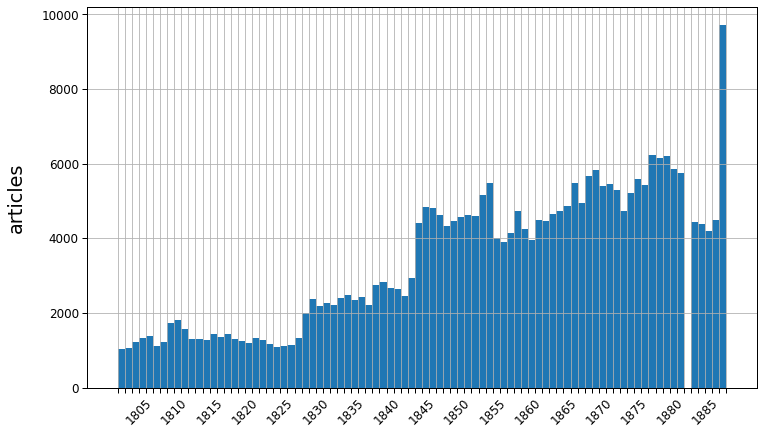
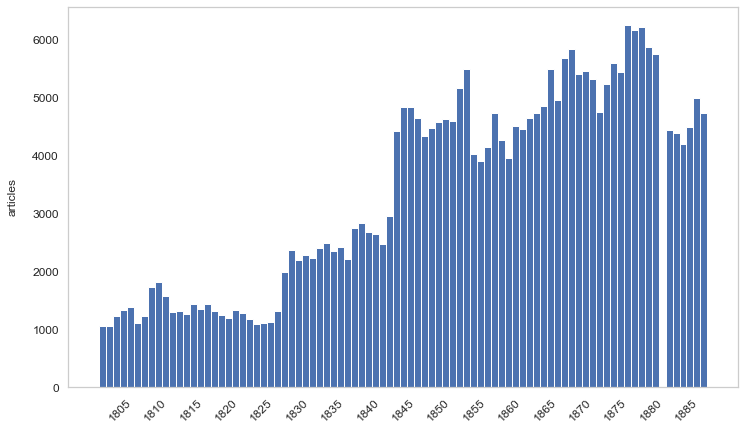
Update histogram, add seaborn style

diff --git a/streamlit_rz.py b/streamlit_rz.py
@@ -33,13 +33,13 @@ Please take these visualizations with a grain of salt. Most importantly, keep in
 
 """)
 
-with open('top_headings.json', 'r', encoding='utf8') as f:
+with open('data/top_headings.json', 'r', encoding='utf8') as f:
     contents = f.read()
     top_headings = json.loads(contents)
 
 @st.cache()
 def load_headings_df():
-    return pd.read_csv('headings_df.tsv', sep='\t', encoding='utf8')
+    return pd.read_csv('data/headings_df.tsv', sep='\t', encoding='utf8')
 
 headings_df = load_headings_df()
 
@@ -53,6 +53,8 @@ if len(heading_options) > 0:
 
     headings_plot_df = headings_df[['year', 'heading2', 'weight']][headings_df.heading2.isin(heading_options)].copy()
     pt = headings_plot_df.pivot_table(index='year', columns='heading2')
+
+    sns.set_theme(style='darkgrid')
     
     fig = plt.figure(figsize=(12,7))
     ax = fig.add_subplot()   
@@ -66,6 +68,8 @@ if len(heading_options) > 0:
     st.pyplot(fig)
 
 else:
+
+    sns.set_theme(style='darkgrid')
 
     fig = plt.figure(figsize=(12,7))
     ax = fig.add_subplot()   
@@ -81,7 +85,7 @@ st.subheader('Locations in article headings')
 
 @st.cache()
 def import_loc_headings_data():
-    with open('places_by_year.json', 'r', encoding='utf8') as f:
+    with open('data/places_by_year.json', 'r', encoding='utf8') as f:
         contents = f.read()
         places_by_year = json.loads(contents)
 
@@ -97,7 +101,6 @@ Again, this visualisation does not represent all of the geographical data presen
 """)
 
 map_timerange = st.slider('Select a timerange', min_value=1802, max_value=1888, value=(1802,1888))
-
 
 def generate_map_from_timerange(timerange, places_by_year):
 
